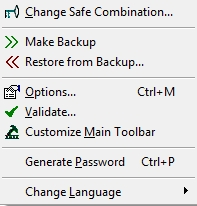
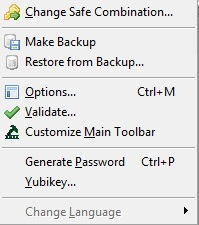
Yubi: Display s/n in dec, adjust yubi config dbox, connect to help system

Changed region(s): [[0.0, 0.0, 1.0, 1.0]]

diff --git a/help/default/html/manage_menu.html b/help/default/html/manage_menu.html
@@ -1,11 +1,11 @@
 <!DOCTYPE HTML PUBLIC "-//W3C//DTD HTML 4.01 Transitional//EN">
-<html>
-<head>
-<title>Manage Menu</title>
-<!-- pwsafe version: 2.11--><!-- Modified: 15/06/2005 --><!--Popup control -->
-<script language="javascript" src="html/popups.js">
+<html><head>
+
+
+<title>Manage Menu</title><!-- pwsafe version: 2.11--><!-- Modified: 15/06/2005 --><!--Popup control --><script language="javascript" src="html/popups.js">
 </script>
 <link rel="stylesheet" type="text/css" href="style.css"></head>
+
 <body>
 <object id="popup" type="application/x-oleobject" classid="clsid:adb880a6-d8ff-11cf-9377-00aa003b7a11"></object>
 <!-- Popup Source File -->
@@ -78,43 +78,44 @@ currently opened.</small></p>
 clipboard, by pushing <i>Generate</i>. The password in the clipboard can then be used by some
 other application.</p>
 
-<h3>Yubikey</h3>
+<h3><a name="#yubikey"></a>Yubikey</h3>
 <p>This allows you to customize your YubiKey so that you can use it to
   access your <b>Password Safe</b> database, as well as creating a
   backup YubiKey in case the original get lost or damaged.</p>
+<img alt="YubiKey Configuration" src="images/yubi_config.jpg">
 <h4>To customize your YubiKey</h4>
 <ol>
   <li>Insert your YubiKey into your PC's USB slot
-  <li>Select the Manage->Yubikey... menu item. The YubiKey
+  </li><li>Select the Manage-&gt;Yubikey... menu item. The YubiKey
   Configuration dialog box will appear.
-  <li>Your YubiKey's Serial Number should be displayed. If this field
+  </li><li>Your YubiKey's Serial Number should be displayed. If this field
   is blank, make sure your YubiKey is plugged in correctly.
-  <li>Click on the Generate button. This will create a 20 byte random
+  </li><li>Click on the Generate button. This will create a 20 byte random
   secret key that will be written to your YubiKey, and used to access
   your database.
-  <li>Click OK. This will write the generated key to your YubiKey, and
+  </li><li>Click OK. This will write the generated key to your YubiKey, and
   save the data in encrypted form in your <b>Password Safe</b>
   database, so that you can use it to configure a backup key.
-  <li> If the configuration is successful, then the dialog box will
+  </li><li> If the configuration is successful, then the dialog box will
   close. If not, then an error message will appear describing the problem.
-</ol>
+</li></ol>
 <b>Note:</b> After configuring your YubiKey, you must change the
 database's password to use the YubiKey for authentication as described
 in <a href="change_combo.html">Changing Master Passwords</a>
 <h4>To create a backup YubiKey</h4>
 <ol>
   <li>Insert your backup YubiKey into your PC's USB slot
-  <li>Select the Manage->Yubikey... menu item. The YubiKey
+  </li><li>Select the Manage-&gt;Yubikey... menu item. The YubiKey
   Configuration dialog box will appear.
-  <li>Your backup YubiKey's Serial Number should be displayed. If this field
+  </li><li>Your backup YubiKey's Serial Number should be displayed. If this field
   is blank, make sure your YubiKey is plugged in correctly.
-  <li><b>Do not</b> click on the Generate button. The data displayed
+  </li><li><b>Do not</b> click on the Generate button. The data displayed
   in the "YubiKey Secret Key" field is the key associated with this
   database. This is the key that will be written to your backup YubiKey.
-  <li>Click OK. This will write the generated key to your backup YubiKey.
-  <li> If the configuration is successful, then the dialog box will
+  </li><li>Click OK. This will write the generated key to your backup YubiKey.
+  </li><li> If the configuration is successful, then the dialog box will
   close. If not, then an error message will appear describing the problem.
-</ol>
+</li></ol>
 
 <h3>Change Language</h3>
 
@@ -145,7 +146,7 @@ language.</p>
 <param name="Keyword" value="Restore from Backup">
 <param name="Keyword" value="Make Backup">
 <param name="Keyword" value="Change Master Password">
+<param name="Keyword" value="YubiKey">
 </object>
 
-</body>
-</html>
+</body></html>

diff --git a/src/ui/Windows/YubiCfgDlg.cpp b/src/ui/Windows/YubiCfgDlg.cpp
@@ -16,8 +16,9 @@
 #include <sstream>
 
 #include "stdafx.h"
+#include "PasswordSafe.h"
+#include "ThisMfcApp.h"
 #include "YubiCfgDlg.h"
-#include "afxdialogex.h"
 
 #include "yubi/yklib.h"
 #include "core/StringX.h"
@@ -46,6 +47,16 @@ void CYubiCfgDlg::DoDataExchange(CDataExchange* pDX)
     CDialog::DoDataExchange(pDX);
     DDX_Text(pDX, IDC_YUBI_SN, m_YubiSN);
     DDX_Text(pDX, IDC_YUBI_SK, m_YubiSK);
+}
+
+static StringX BinSN2Str(const unsigned char *snstr)
+{
+  unsigned int sn = 0;
+  sn = (snstr[0] << 24) | (snstr[1] << 16);
+  sn |= (snstr[2] << 8) | snstr[3];
+  wostringstream os;
+  os << sn;
+  return StringX(os.str().c_str());
 }
 
 static StringX BinSK2HexStr(const unsigned char *sk, int len)
@@ -96,7 +107,7 @@ void CYubiCfgDlg::ReadYubiSN()
   // Wait for response completion
   rc = yk.waitForCompletion(YKLIB_MAX_SERIAL_WAIT, buffer, sizeof(DWORD));
   if (rc != YKLIB_OK) goto fail;
-  m_YubiSN = BinSK2HexStr(buffer, 4).c_str();
+  m_YubiSN = BinSN2Str(buffer).c_str();
   rc = yk.closeKey();
   return; // good return
  fail:
@@ -132,6 +143,7 @@ int CYubiCfgDlg::WriteYubiSK(const unsigned char *yubi_sk_bin)
 BEGIN_MESSAGE_MAP(CYubiCfgDlg, CPWDialog)
     ON_BN_CLICKED(IDC_YUBI_GEN_BN, &CYubiCfgDlg::OnYubiGenBn)
     ON_BN_CLICKED(IDOK, &CYubiCfgDlg::OnBnClickedOk)
+    ON_BN_CLICKED(ID_HELP, &CYubiCfgDlg::OnHelp)
     ON_WM_TIMER()
 END_MESSAGE_MAP()
 
@@ -222,4 +234,11 @@ void CYubiCfgDlg::OnTimer(UINT_PTR)
     else
       yubiRemoved();
   }
+}
+
+void CYubiCfgDlg::OnHelp() 
+{
+  CString cs_HelpTopic;
+  cs_HelpTopic = app.GetHelpFileName() + L"::/html/manage_menu.html#yubikey";
+  HtmlHelp(DWORD_PTR((LPCWSTR)cs_HelpTopic), HH_DISPLAY_TOPIC);
 }

diff --git a/src/ui/Windows/YubiCfgDlg.h b/src/ui/Windows/YubiCfgDlg.h
@@ -37,6 +37,7 @@ public:
   afx_msg void OnYubiGenBn();
   afx_msg void OnBnClickedOk();
   afx_msg void OnTimer(UINT_PTR nIDEvent);
+  afx_msg void OnHelp();
  private:
   void ReadYubiSN();
   bool IsYubiInserted() const;
